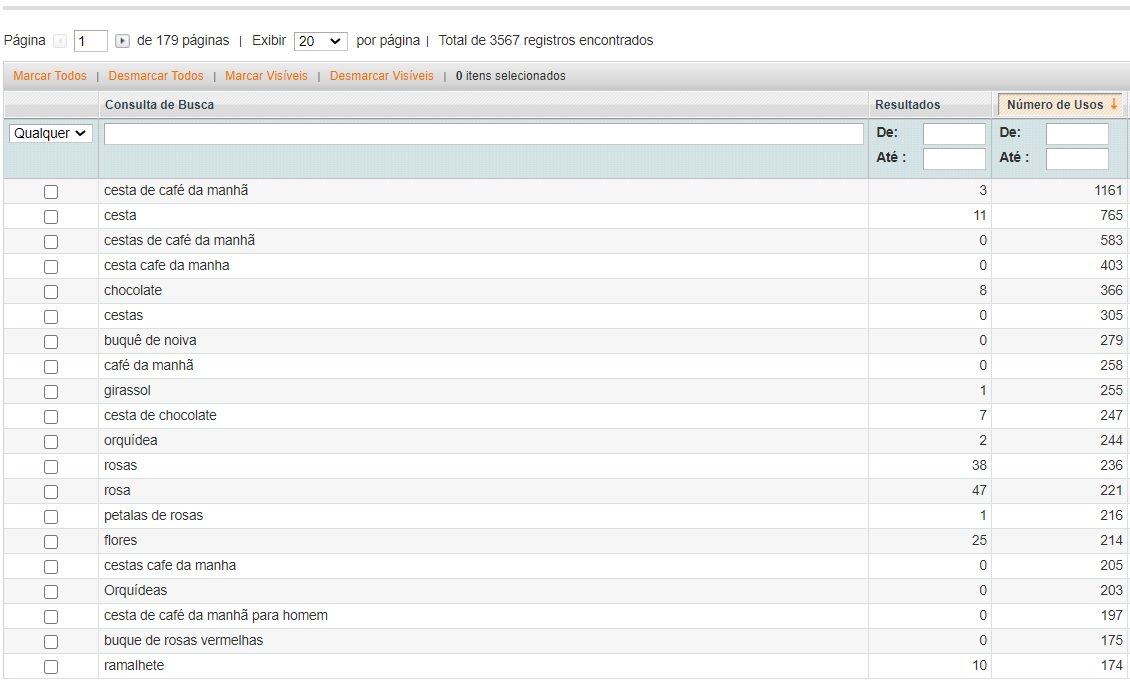
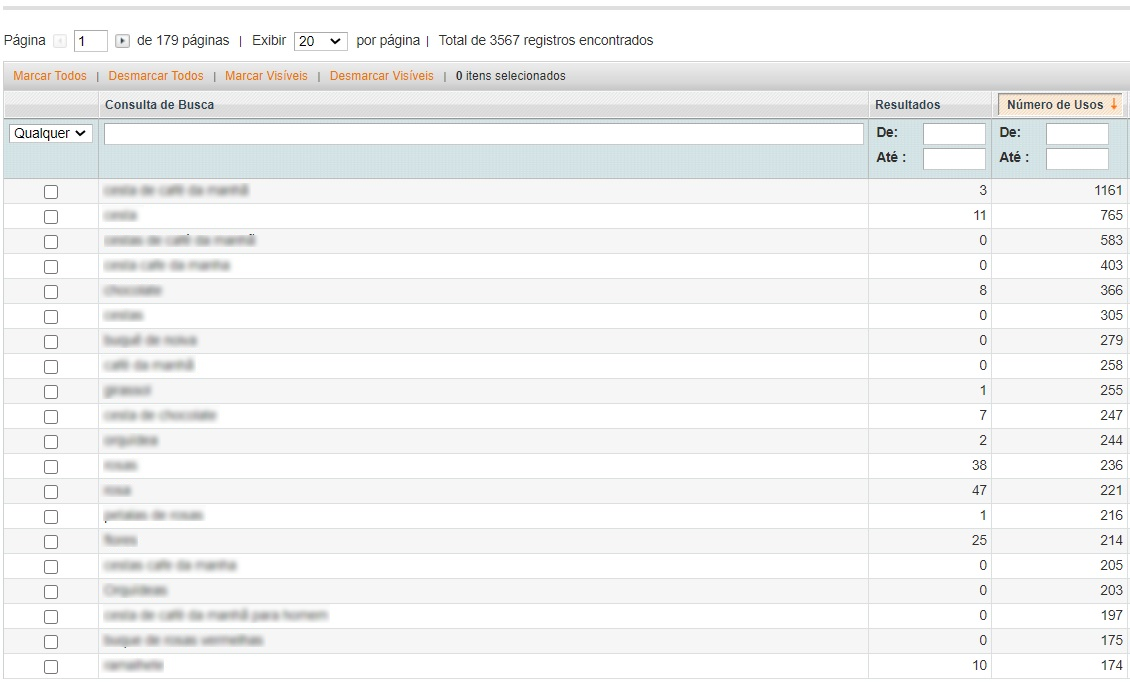
terminei a escrita da parte de alinhamento

Changed region(s): [[0.0929, 0.246, 0.3097, 0.9839]]

diff --git a/_portfolio/lojas-virtuais.md b/_portfolio/lojas-virtuais.md
@@ -76,14 +76,17 @@ Essas informações eram coletadas através dos perfis de rede sociais, de lojas
 
 Na data combinada com a equipe do cliente, normalmente acompanhado por uma colega do marketing, ocorria uma reunião para alinhar informações sobre o projeto e entrevistar o cliente para **entender de forma mais aprofundada sobre informações coletadas até o momento sobre a empresa contratante.**
 
-Durante essa reunião recebíamos dados sobre o comportamento do usuário
+**Durante essa reunião solicitávamos alguns dados sobre o comportamento do usuários atuais**, tais como quais eram os produtos mais vendidos e mais procurados (caso já tivesse um e-commerce), dados demográficos sobre os usuários e canais de venda atuais.
+
+Por exemplo, **se embasando em dados** de uma listagem com os termos mais buscados de um e-commerce atual **fica exatamente claro na hora de se tomar a decisão** sobre quais seriam os produtos e categorias que a serem priorizados na página inicial da loja virtual.
 
 <figure>
 	<a href="/assets/images/Bleez/dados-filtro.png"><img src="/assets/images/Bleez/dados-filtro.png"></a>
-	<figcaption><a href="https://docs.google.com/document/d/e/2PACX-1vTCXsbuzGsIBDZwuu5nsYMbqUBYWnxvW9focmPjdmnDTgGETXX-QWDBm3slpT_doKapVeld1kXPI8Tk/pub" title="Acesse os dados da entrevista completa">Acesse os dados da entrevista completa</a></figcaption>
+	<figcaption> title="Acesse os dados da entrevista completa">Acesse os dados da entrevista completa</figcaption>
 </figure>
 
-## 1.2 - Recebimento de informações do marketing e do cliente
+## 1.2 - Recebimento de informações do marketing
+
 
 # 2 - Ideate (Problema específico)
 
